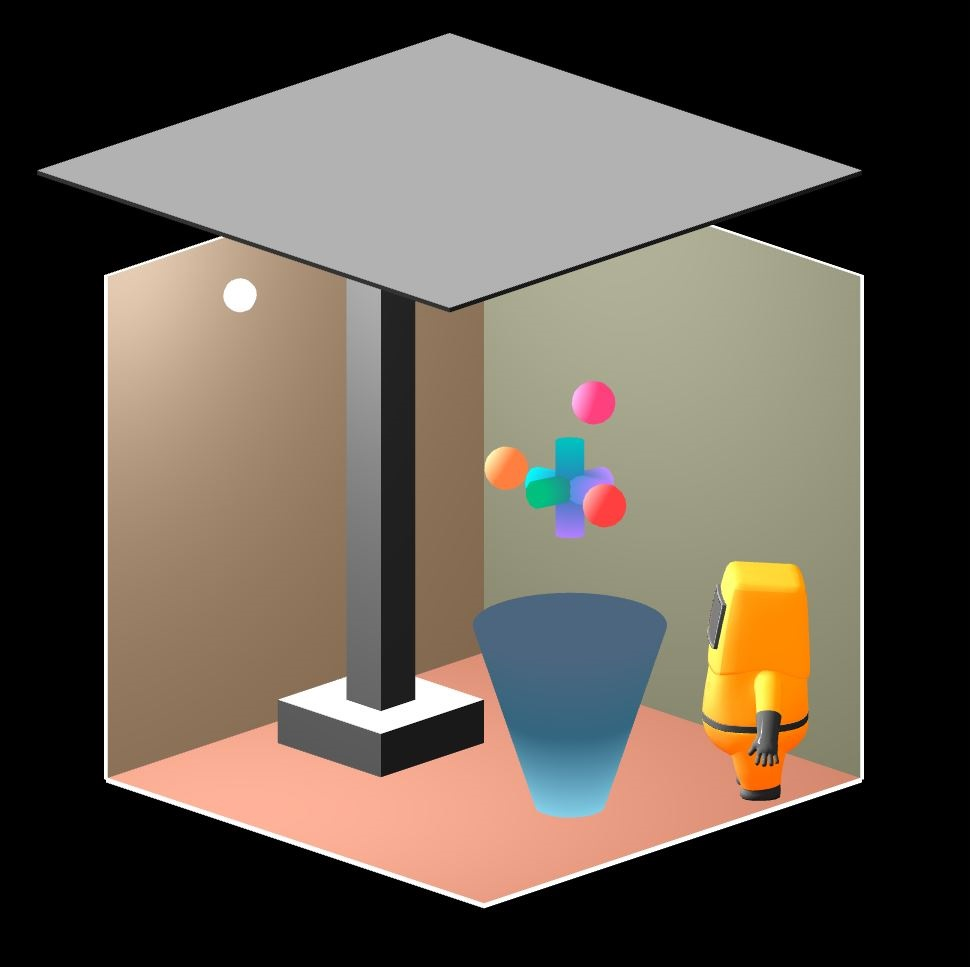
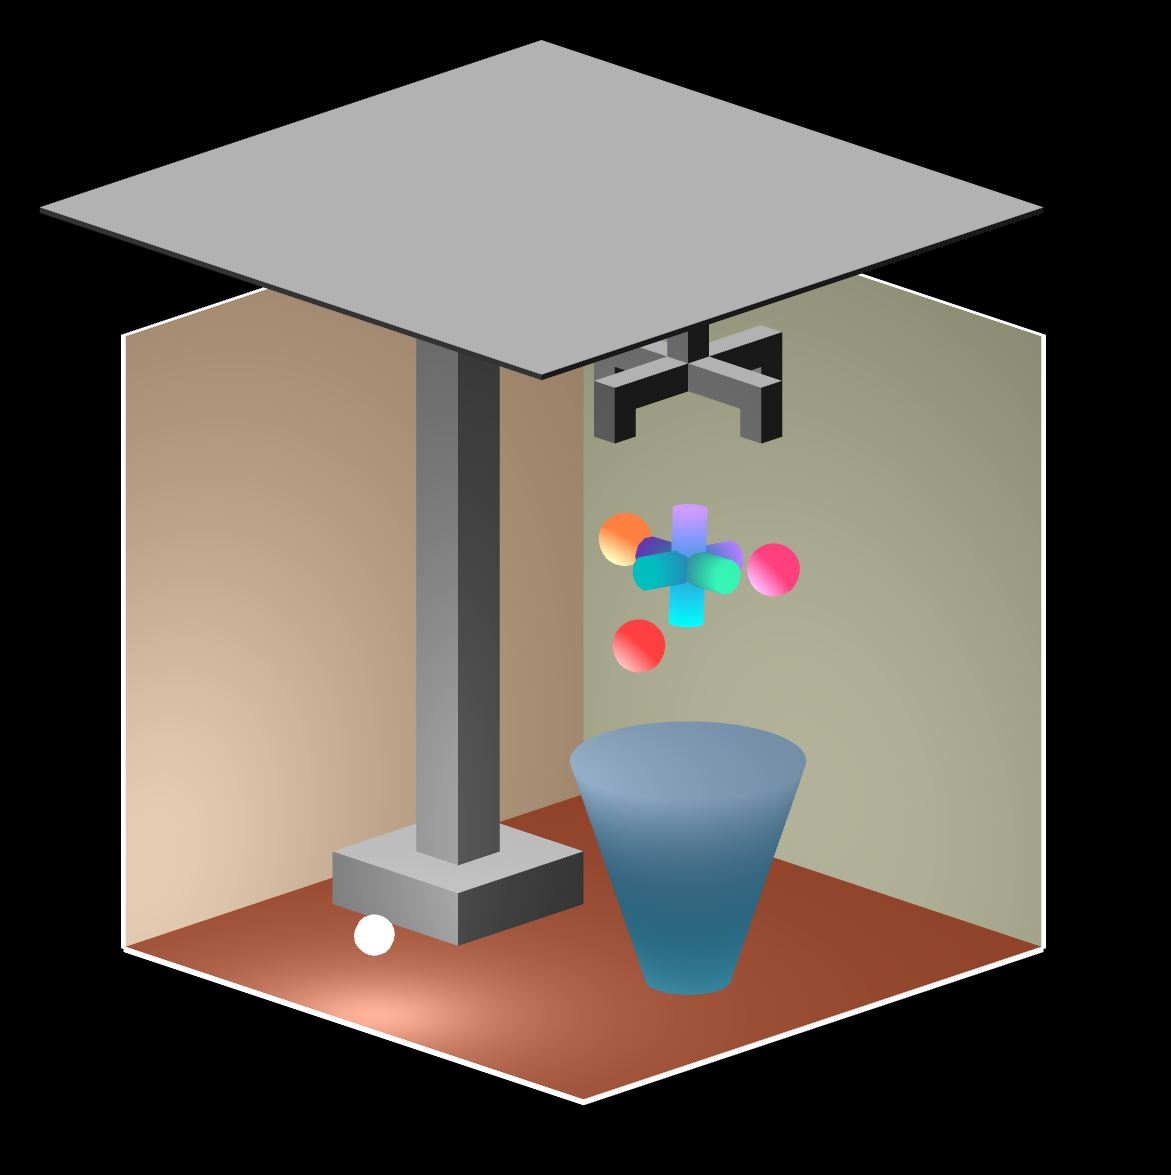
Updated Scene

diff --git a/src/lab_4.js b/src/lab_4.js
@@ -52,7 +52,7 @@ function onKeyDown(event) {
         playerMatrix = multiply(translation( 0.00,  0.00, -0.01), playerMatrix);
     }
 
-    var primitive = sceneObjects.find(primitive => {return primitive.name == "model"});
+    var primitive = sceneObjects.find(primitive => {return primitive.name == "centroid"});
     if (event.key == 'ArrowRight') {
         primitive.localMatrix = multiply(primitive.localMatrix, rotation(0,  10, 0));
     }
@@ -167,6 +167,22 @@ async function initBuffers() {
         new Primitive("arm_head",   initCube(gl, size=0.10, colors=[[0.1, 0.1, 0.1], [0.1, 0.1, 0.1], [0.7, 0.7, 0.7],
                                                                     [0.7, 0.7, 0.7], [0.2, 0.2, 0.2], [0.2, 0.2, 0.2]]), []),
 
+        new Primitive("grab_head",  initCube(gl, size=0.10, colors=[[0.1, 0.1, 0.1], [0.1, 0.1, 0.1], [0.7, 0.7, 0.7],
+                                                                    [0.7, 0.7, 0.7], [0.2, 0.2, 0.2], [0.2, 0.2, 0.2]]), ["grab_top_1", "grab_top_2"]),
+        new Primitive("grab_top_1", initCube(gl, size=0.10, colors=[[0.1, 0.1, 0.1], [0.1, 0.1, 0.1], [0.7, 0.7, 0.7],
+                                                                    [0.7, 0.7, 0.7], [0.2, 0.2, 0.2], [0.2, 0.2, 0.2]]), ["grab_1", "grab_2"]),
+        new Primitive("grab_top_2", initCube(gl, size=0.10, colors=[[0.1, 0.1, 0.1], [0.1, 0.1, 0.1], [0.7, 0.7, 0.7],
+                                                                    [0.7, 0.7, 0.7], [0.2, 0.2, 0.2], [0.2, 0.2, 0.2]]), ["grab_3", "grab_4"]),
+        new Primitive("grab_1",     initCube(gl, size=0.10, colors=[[0.1, 0.1, 0.1], [0.1, 0.1, 0.1], [0.7, 0.7, 0.7],
+                                                                    [0.7, 0.7, 0.7], [0.2, 0.2, 0.2], [0.2, 0.2, 0.2]]), []),
+        new Primitive("grab_2",     initCube(gl, size=0.10, colors=[[0.1, 0.1, 0.1], [0.1, 0.1, 0.1], [0.7, 0.7, 0.7],
+                                                                    [0.7, 0.7, 0.7], [0.2, 0.2, 0.2], [0.2, 0.2, 0.2]]), []),
+        new Primitive("grab_3",     initCube(gl, size=0.10, colors=[[0.1, 0.1, 0.1], [0.1, 0.1, 0.1], [0.7, 0.7, 0.7],
+                                                                    [0.7, 0.7, 0.7], [0.2, 0.2, 0.2], [0.2, 0.2, 0.2]]), []),
+        new Primitive("grab_4",     initCube(gl, size=0.10, colors=[[0.1, 0.1, 0.1], [0.1, 0.1, 0.1], [0.7, 0.7, 0.7],
+                                                                    [0.7, 0.7, 0.7], [0.2, 0.2, 0.2], [0.2, 0.2, 0.2]]), []),
+
+
         new Primitive("stand",      initCylinder(gl, radiusTop=0.07, radiusBottom=0.20, height=0.40, slices=50, stacks=2, colors=[[0.10, 0.40, 0.50], [0.30, 0.40, 0.50]]), []),
 
         new Primitive("nucleus_1",  initCylinder(gl, radiusTop=0.03, radiusBottom=0.03, height=0.2, slices=10, stacks=2, colors=[[0.00, 0.75, 0.50], [0.40, 0.20, 0.70]]), ["orbit_1"]),
@@ -215,7 +231,7 @@ function setScene() {
         }
 
         if (primitive.name == "model") {
-            primitive.localMatrix = transformConstructor([translation(0.5, -0.5, 0.0), rotation(0, 180, 0), scale(0.20, 0.20, 0.20)])
+            primitive.localMatrix = transformConstructor([translation(0.5, -0.5, 0.0), rotation(0, 180, 0), scale(0.00, 0.00, 0.00)])
         }
         if (primitive.name == "centroid") {
             primitive.mMatrix = translation(0.00, 0.05, -0.25);
@@ -241,6 +257,29 @@ function setScene() {
         }
         if (primitive.name == "arm_head") {
             primitive.localMatrix = transformConstructor([translation(0.00,  0.55, 0.10), scale(6.0, 0.05, 6.0)]);
+        }
+
+        if (primitive.name == "grab_head") {
+            primitive.localMatrix = transformConstructor([translation(0.0,  0.45, 0.00), scale(0.25, 1.00, 0.25)]);
+            primitive.mMatrix = translation(0.00, 0.10, -0.25);
+        }
+        if (primitive.name == "grab_top_1") {
+            primitive.localMatrix = transformConstructor([translation( 0.000, 0.35, 0.000), scale(2.00, 0.25, 0.25)]);
+        }
+        if (primitive.name == "grab_top_2") {
+            primitive.localMatrix = transformConstructor([translation( 0.000, 0.35, 0.000), scale(0.25, 0.25, 2.00)]);
+        }
+        if (primitive.name == "grab_1") {
+            primitive.localMatrix = transformConstructor([translation( 0.000, 0.20, 0.075), scale(0.25, 0.25, 0.25)]);
+        }
+        if (primitive.name == "grab_2") {
+            primitive.localMatrix = transformConstructor([translation( 0.000, 0.20, 0.425), scale(0.25, 0.25, 0.25)]);
+        }
+        if (primitive.name == "grab_3") {
+            primitive.localMatrix = transformConstructor([translation( 0.175, 0.20, 0.250), scale(0.25, 0.25, 0.25)]);
+        }
+        if (primitive.name == "grab_4") {
+            primitive.localMatrix = transformConstructor([translation(-0.175, 0.20, 0.250), scale(0.25, 0.25, 0.25)]);
         }
 
         if (primitive.name == "stand") {
@@ -369,7 +408,7 @@ function animationLoop() {
         // apply automatic movements to primitives
         sceneObjects.filter(primitive => {
 
-            if (primitive.name.includes("model")) {
+            if (primitive.name.includes("centroid")) {
                 primitive.mMatrix = playerMatrix;
             }
 

diff --git a/index.html b/index.html
@@ -103,11 +103,11 @@
     }
 </script>
 
-<script type="text/javascript" src="glMatrix-0.9.5.min.js"></script>
-<script type="text/javascript" src="shaders_setup.js"></script>
-<script type="text/javascript" src="init_buffer.js"></script>
-<script type="text/javascript" src="transformation.js"></script>
-<script type="text/javascript" src="lab_4.js"></script>
+<script type="text/javascript" src="src/glMatrix-0.9.5.min.js"></script>
+<script type="text/javascript" src="src/shaders_setup.js"></script>
+<script type="text/javascript" src="src/init_buffer.js"></script>
+<script type="text/javascript" src="src/transformation.js"></script>
+<script type="text/javascript" src="src/lab_4.js"></script>
 </head>
 
 <body onload="webGLStart();">

diff --git a/README.md b/README.md
@@ -1,4 +1,4 @@
-# CSE 5542: Real-Time Rendering - Lab 4
+# Real-Time Rendering
 Andrew Wong <br>
 Wong.816@osu.edu
 
@@ -7,9 +7,10 @@ Wong.816@osu.edu
 ---
 ## Files
 ---
-The lab 4 project consists of the following files:
+The project consists of the following files:
 
     - 3D_Model
+        - license.txt
         - default-grey.jpg
         - texture.jpg
         - model.json
@@ -26,9 +27,9 @@ The code was developed on Windows 11 using Firefox.
 ---
 ## Usage
 ---
-The scene is of a hazmat character in a room with a floating particle. The particle's nucleus has three sub-particles orbiting it.
+The scene is of a floating particle in a room. The particle's nucleus has three sub-particles orbiting it.
 
-The player controls the hazmat character. The controls are as follows:
+The player controls the particle. The controls are as follows:
 
     - W:            move forward
     - A:            move left
@@ -50,8 +51,3 @@ The light source can be moved in the world space using the following commands:
     - J/j:  X-axis
     - K/k:  Y-axis
     - L/l:  Z-axis
-
----
-## Local Server
----
-The code does not use any packaging software and requires a local server to work.
